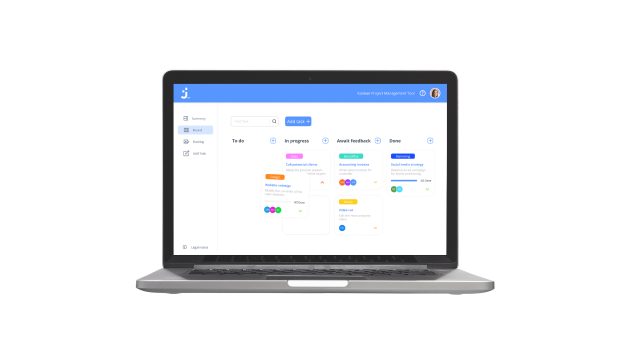
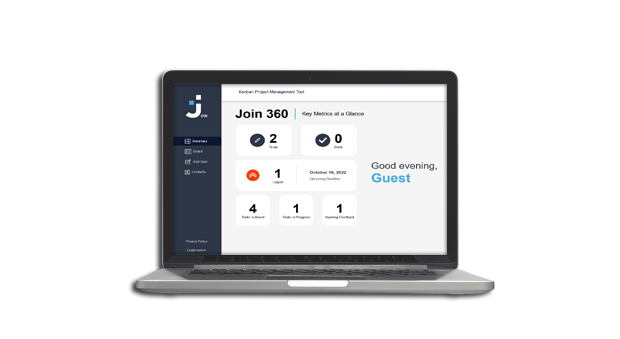
#7

diff --git a/src/app/portfolio/portfolio.component.html b/src/app/portfolio/portfolio.component.html
@@ -6,7 +6,7 @@
       alt=""
     />
     <img src="./assets/img/middle-lilaline.png" alt="" />
-    <h1>{{ 'portfolio.title' | translate }}</h1>
+    <h1>{{ "portfolio.title" | translate }}</h1>
     <img src="./assets/img/long-lilaline.png" alt="" />
     <img
       class="port-responsive-line"
@@ -17,7 +17,7 @@
 
   <div class="explore">
     <p>
-      {{ 'portfolio.explore' | translate }}
+      {{ "portfolio.explore" | translate }}
     </p>
   </div>
 
@@ -28,15 +28,22 @@
       </div>
       <div class="description">
         <div class="description-text">
-          <h3>{{ 'portfolio.projects.join.title' | translate }}</h3>
-          <span>{{ 'portfolio.projects.join.tech' | translate }}</span>
+          <h3>{{ "portfolio.projects.join.title" | translate }}</h3>
+          <span>{{ "portfolio.projects.join.tech" | translate }}</span>
           <p>
-            {{ 'portfolio.projects.join.description' | translate }}
+            {{ "portfolio.projects.join.description" | translate }}
           </p>
         </div>
         <div class="description-buttons">
-          <button class="live">{{ 'portfolio.projects.buttons.live' | translate }}</button>
-          <button class="git">{{ 'portfolio.projects.buttons.github' | translate }}</button>
+          <button
+            class="live"
+            onclick="window.open('https://maximilian-wagener.de/join/', '_blank');"
+          >
+            {{ "portfolio.projects.buttons.live" | translate }}
+          </button>
+          <button class="git">
+            {{ "portfolio.projects.buttons.github" | translate }}
+          </button>
         </div>
       </div>
     </div>
@@ -44,15 +51,22 @@
     <div class="project row">
       <div class="description">
         <div class="description-text txt-left">
-          <h3>{{ 'portfolio.projects.sharki.title' | translate }}</h3>
-          <span>{{ 'portfolio.projects.sharki.tech' | translate }}</span>
+          <h3>{{ "portfolio.projects.sharki.title" | translate }}</h3>
+          <span>{{ "portfolio.projects.sharki.tech" | translate }}</span>
           <p>
-            {{ 'portfolio.projects.sharki.description' | translate }}
+            {{ "portfolio.projects.sharki.description" | translate }}
           </p>
         </div>
         <div class="description-buttons">
-          <button class="live">{{ 'portfolio.projects.buttons.live' | translate }}</button>
-          <button class="git">{{ 'portfolio.projects.buttons.github' | translate }}</button>
+          <button
+            class="live"
+            onclick="window.open('https://maximilian-wagener.de/ElPolloLoco/', '_blank');"
+          >
+            {{ "portfolio.projects.buttons.live" | translate }}
+          </button>
+          <button class="git">
+            {{ "portfolio.projects.buttons.github" | translate }}
+          </button>
         </div>
       </div>
       <div class="laptop">
@@ -62,58 +76,54 @@
 
     <div class="project">
       <div class="laptop">
-        <img src="./assets/img/crm.png" alt="" />
+        <img src="./assets/img/pokemon.png" alt="" />
       </div>
       <div class="description">
-        <div class="description-text">
-          <h3>{{ 'portfolio.projects.crm.title' | translate }}</h3>
-          <span>{{ 'portfolio.projects.crm.tech' | translate }}</span>
+        <div class="description-text txt-left">
+          <h3>{{ "portfolio.projects.pokedex.title" | translate }}</h3>
+          <span>{{ "portfolio.projects.pokedex.tech" | translate }}</span>
           <p>
-            {{ 'portfolio.projects.crm.description' | translate }}
+            {{ "portfolio.projects.pokedex.description" | translate }}
           </p>
         </div>
         <div class="description-buttons">
-          <button class="live">{{ 'portfolio.projects.buttons.live' | translate }}</button>
-          <button class="git">{{ 'portfolio.projects.buttons.github' | translate }}</button>
+          <button
+            class="live"
+            onclick="window.open('https://maximilian-wagener.de/Pokedex/', '_blank');"
+          >
+            {{ "portfolio.projects.buttons.live" | translate }}
+          </button>
+          <button class="git">
+            {{ "portfolio.projects.buttons.github" | translate }}
+          </button>
         </div>
       </div>
     </div>
 
     <div class="project row">
       <div class="description">
-        <div class="description-text txt-left">
-          <h3>{{ 'portfolio.projects.pokedex.title' | translate }}</h3>
-          <span>{{ 'portfolio.projects.pokedex.tech' | translate }}</span>
+        <div class="description-text">
+          <h3>{{ "portfolio.projects.dabooble.title" | translate }}</h3>
+          <span>{{ "portfolio.projects.dabooble.tech" | translate }}</span>
           <p>
-            {{ 'portfolio.projects.pokedex.description' | translate }}
+            {{ "portfolio.projects.dabooble.description" | translate }}
           </p>
+          <p style="color: red !important;">*Coming soon!</p>
         </div>
         <div class="description-buttons">
-          <button class="live">{{ 'portfolio.projects.buttons.live' | translate }}</button>
-          <button class="git">{{ 'portfolio.projects.buttons.github' | translate }}</button>
+          <button
+            class="live"
+            onclick="window.open('https://maximilian-wagener.de/#', '_blank');"
+          >
+            {{ "portfolio.projects.buttons.live" | translate }}
+          </button>
+          <button class="git">
+            {{ "portfolio.projects.buttons.github" | translate }}
+          </button>
         </div>
       </div>
-      <div class="laptop">
-        <img src="./assets/img/pokemon.png" alt="" />
-      </div>
-    </div>
-
-    <div class="project">
       <div class="laptop">
         <img src="./assets/img/dabooble.png" alt="" />
-      </div>
-      <div class="description">
-        <div class="description-text">
-          <h3>{{ 'portfolio.projects.dabooble.title' | translate }}</h3>
-          <span>{{ 'portfolio.projects.dabooble.tech' | translate }}</span>
-          <p>
-            {{ 'portfolio.projects.dabooble.description' | translate }}
-          </p>
-        </div>
-        <div class="description-buttons">
-          <button class="live">{{ 'portfolio.projects.buttons.live' | translate }}</button>
-          <button class="git">{{ 'portfolio.projects.buttons.github' | translate }}</button>
-        </div>
       </div>
     </div>
   </div>

diff --git a/src/app/app.component.ts b/src/app/app.component.ts
@@ -15,7 +15,7 @@ import { TranslateService, TranslateModule } from '@ngx-translate/core';
 @Component({
   selector: 'app-root',
   standalone: true,
-  imports: [TranslateModule, CommonModule, HeaderComponent, HeroComponent, AboutmeComponent, SkillsComponent, PortfolioComponent, FeedbackComponent, ContactComponent, FooterComponent],
+  imports: [TranslateModule, RouterOutlet, CommonModule, HeaderComponent, HeroComponent, AboutmeComponent, SkillsComponent, PortfolioComponent, FeedbackComponent, ContactComponent, FooterComponent],
   templateUrl: './app.component.html',
   styleUrls: ['./app.component.scss'],
   animations: [

diff --git a/src/app/shared/footer/footer.component.ts b/src/app/shared/footer/footer.component.ts
@@ -1,11 +1,14 @@
 import { Component } from '@angular/core';
 import { CommonModule } from '@angular/common';
 import { TranslateModule } from '@ngx-translate/core';
+import { RouterModule } from '@angular/router';
+import { ImpressumComponent } from '../impressum/impressum.component';
+
 
 @Component({
   selector: 'app-footer',
   standalone: true,
-  imports: [CommonModule, TranslateModule],
+  imports: [CommonModule, TranslateModule, RouterModule, ImpressumComponent],
   templateUrl: './footer.component.html',
   styleUrl: './footer.component.scss'
 })

diff --git a/src/app/skills/skills.component.ts b/src/app/skills/skills.component.ts
@@ -10,5 +10,16 @@ import { TranslateModule } from '@ngx-translate/core';
   styleUrl: './skills.component.scss'
 })
 export class SkillsComponent {
+  scrollToElement(elementId: string, offset: number = 0): void {
+    const element = document.getElementById(elementId);
+    if (element) {
+      const elementPosition = element.getBoundingClientRect().top + window.pageYOffset;
+      const offsetPosition = elementPosition - offset;
 
+      window.scrollTo({
+        top: offsetPosition,
+        behavior: 'smooth'
+      });
+    }
+  }
 }

diff --git a/src/app/hero/hero.component.ts b/src/app/hero/hero.component.ts
@@ -11,5 +11,16 @@ import { TranslateModule } from '@ngx-translate/core';
   styleUrl: './hero.component.scss'
 })
 export class HeroComponent {
+  scrollToElement(elementId: string, offset: number = 0): void {
+    const element = document.getElementById(elementId);
+    if (element) {
+      const elementPosition = element.getBoundingClientRect().top + window.pageYOffset;
+      const offsetPosition = elementPosition - offset;
 
+      window.scrollTo({
+        top: offsetPosition,
+        behavior: 'smooth'
+      });
+    }
+  }
 }

diff --git a/src/app/app.routes.ts b/src/app/app.routes.ts
@@ -1,6 +1,14 @@
-import { Routes } from '@angular/router';
+import { NgModule } from '@angular/core';
+import { RouterModule, Routes } from '@angular/router';
 import { ImpressumComponent } from './shared/impressum/impressum.component';
 
 export const routes: Routes = [
-  { path: 'impressum', component: ImpressumComponent },
+  { path: 'app-impressum', component: ImpressumComponent },
 ];
+
+@NgModule({
+  imports: [RouterModule.forRoot(routes)],
+  exports: [RouterModule]
+})
+
+export class AppRoutingModule { }

diff --git a/src/app/skills/skills.component.html b/src/app/skills/skills.component.html
@@ -65,7 +65,9 @@
       <div>
         <h3 [innerHTML]="'SKILLS.LOOKING_FOR' | translate"></h3>
         <p>{{ 'SKILLS.CONTACT_ME' | translate }}</p>
-        <button class="get-in-touch-btn">{{ 'SKILLS.GET_IN_TOUCH' | translate }}</button>
+        <button class="get-in-touch-btn" href="javascript:void(0)"
+        (click)="scrollToElement('contact', 100)"
+        >{{ 'SKILLS.GET_IN_TOUCH' | translate }}</button>
       </div>
     </div>
   </div>

diff --git a/src/app/shared/footer/footer.component.html b/src/app/shared/footer/footer.component.html
@@ -2,7 +2,7 @@
   <div class="footer-section">
     <div class="footer-logo">
       <img src="./assets/img/footer-logo.png" alt="" />
-      <a href="#">{{ "footer.legalNotice" | translate }}</a>
+      <a routerlink="/app-impressum">{{ "footer.legalNotice" | translate }}</a>
     </div>
     <div class="footer-copyright">
       <p>© {{ "footer.copyright" | translate }}</p>

diff --git a/src/app/hero/hero.component.html b/src/app/hero/hero.component.html
@@ -15,7 +15,8 @@
       </div>
     </div>
     <div class="talk-button-container">
-      <button class="talk-button">{{ "hero.letstalk" | translate }}</button>
+      <button class="talk-button" href="javascript:void(0)"
+      (click)="scrollToElement('contact', 100)">{{ "hero.letstalk" | translate }}</button>
     </div>
   </div>
 

diff --git a/src/app/contact/contact.component.ts b/src/app/contact/contact.component.ts
@@ -26,7 +26,7 @@ export class ContactComponent {
   mailTest = true;
 
   post = {
-    endPoint: 'http://maximilian-wagener.de/sendMail.php',
+    endPoint: 'https://maximilian-wagener.de/sendMail.php',
     body: (payload: any) => JSON.stringify(payload),
     options: {
       headers: {

diff --git a/src/app/app.component.scss b/src/app/app.component.scss
@@ -82,7 +82,7 @@
 
 .purpleshadow2 {
   position: absolute;
-  top: 3355px;
+  top: 3100px;
   left: 0;
 }
 
@@ -161,7 +161,7 @@
   .purpleshadow2 {
     width: 241.11px;
     height: 453.22px;
-    top: 4152px !important;
+    top: 4552px !important;
   }
 
   .greenshadow2 {

diff --git a/src/app/app.component.html b/src/app/app.component.html
@@ -37,3 +37,4 @@
   ></app-contact>
   <app-footer class="footer"></app-footer>
 </div>
+<router-outlet></router-outlet>
